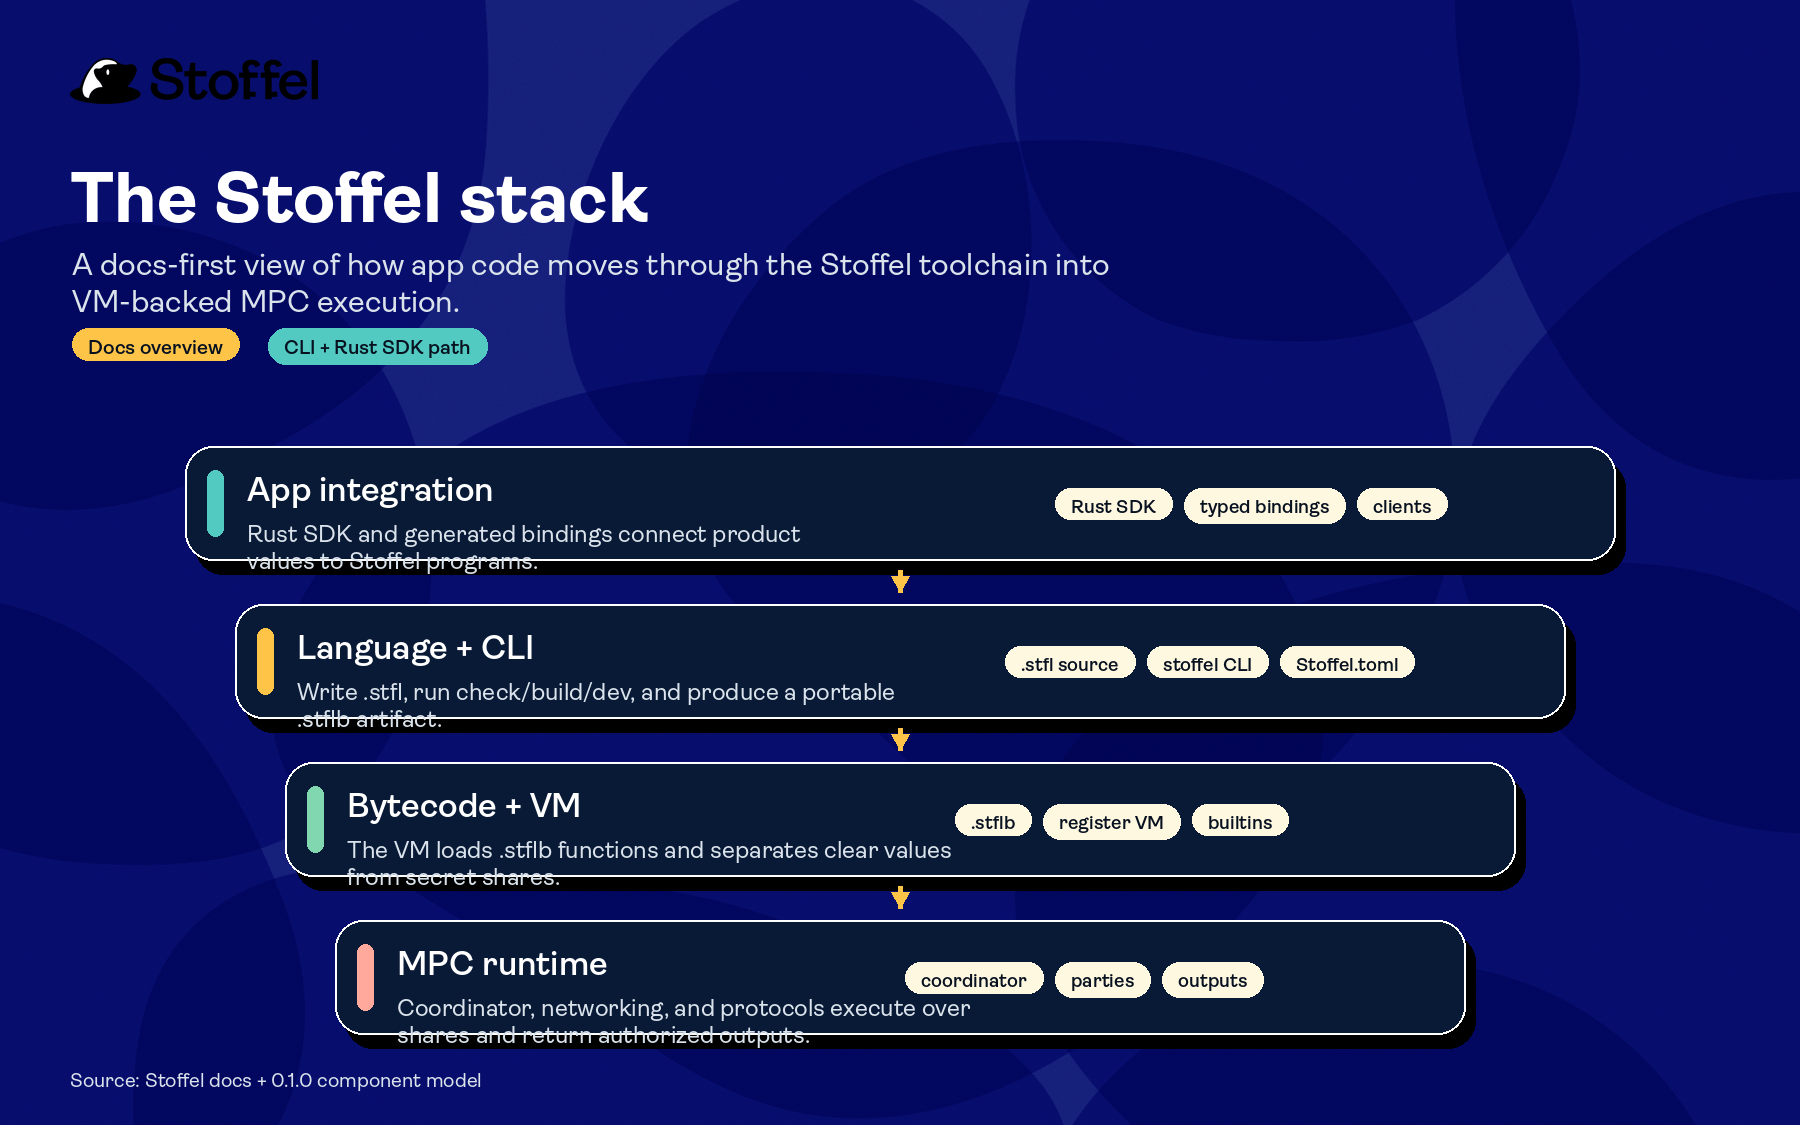
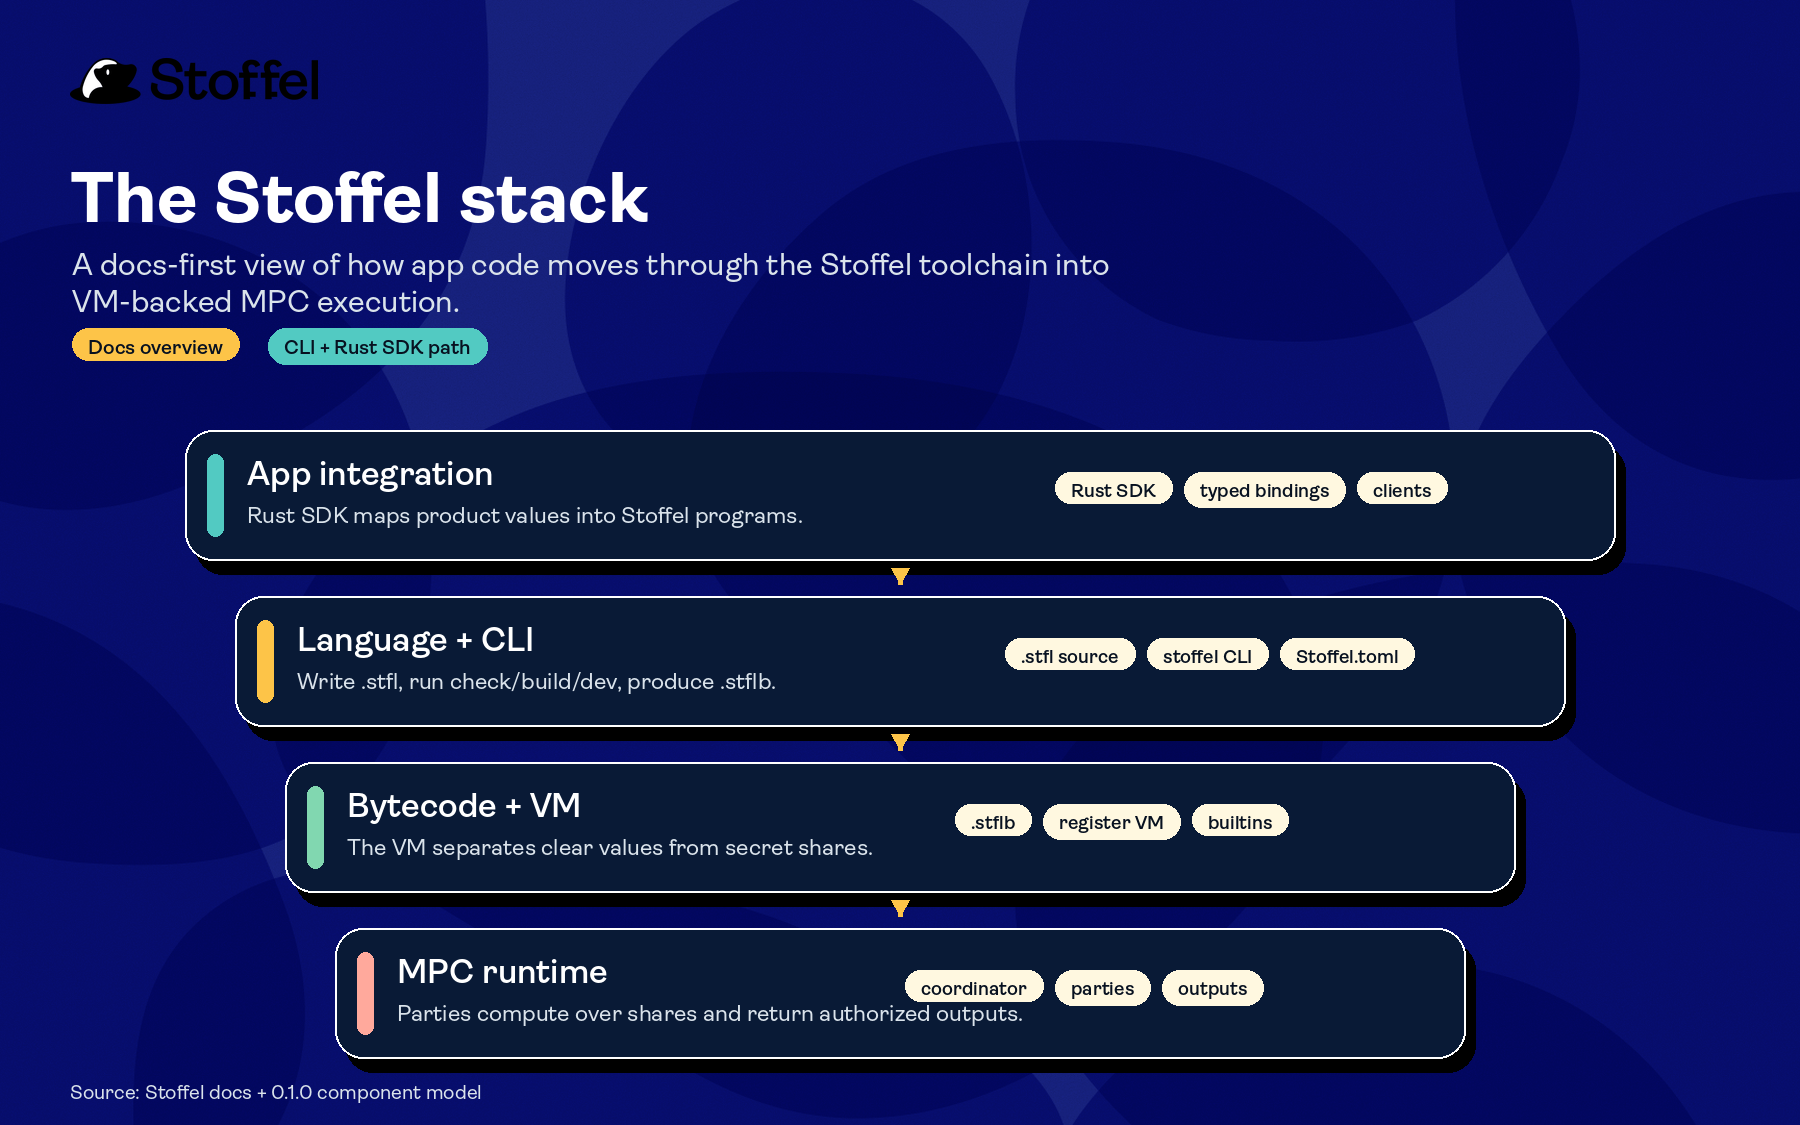
docs: add card containment QA for stack diagram

Changed region(s): [[0.0933, 0.3733, 0.9022, 0.6844], [0.0311, 0.7467, 0.8711, 0.9956]]

diff --git a/scripts/generate_docs_campaign_assets.py b/scripts/generate_docs_campaign_assets.py
@@ -34,7 +34,31 @@ COL = {
     'stroke': (255, 255, 255, 84),
 }
 
-qa = {'text_overflow': [], 'box_overflow': [], 'asset': None, 'text_count': 0, 'layer_count': 0}
+qa = {
+    'text_overflow': [],
+    'box_overflow': [],
+    'card_containment_issues': [],
+    'asset': None,
+    'text_count': 0,
+    'layer_count': 0,
+}
+
+
+def inside(inner, outer, padding=0):
+    ix1, iy1, ix2, iy2 = inner
+    ox1, oy1, ox2, oy2 = outer
+    return ix1 >= ox1 + padding and iy1 >= oy1 + padding and ix2 <= ox2 - padding and iy2 <= oy2 - padding
+
+
+def check_card_containment(label, kind, bbox, card_box, padding=18):
+    if not inside(bbox, card_box, padding):
+        qa['card_containment_issues'].append({
+            'label': label,
+            'kind': kind,
+            'bbox': tuple(round(v, 2) for v in bbox),
+            'card_box': card_box,
+            'padding': padding,
+        })
 
 
 def render_logo():
@@ -92,7 +116,7 @@ def draw_text(draw, xy, s, font, fill, maxw=None, spacing=6, label='text'):
     return bbox
 
 
-def chip(draw, xy, s, fill, f=None):
+def chip(draw, xy, s, fill, f=None, return_box=False):
     f = f or font_semi(20)
     bbox = draw.textbbox((0, 0), s, font=f)
     x, y = xy
@@ -103,6 +127,9 @@ def chip(draw, xy, s, fill, f=None):
     draw.text((x + pad_x, y + pad_y - 2), s, font=f, fill=COL['ink'])
     if x + w > W or y + h > H:
         qa['box_overflow'].append({'label': s, 'box': (x, y, x + w, y + h)})
+    box = (x, y, x + w, y + h)
+    if return_box:
+        return w, h, box
     return w, h
 
 
@@ -124,11 +151,14 @@ def layer_card(draw, box, title, subtitle, accent, pills):
     draw.rounded_rectangle((x1 + 10, y1 + 14, x2 + 10, y2 + 14), radius=28, fill=(0, 0, 0, 68))
     draw.rounded_rectangle(box, radius=28, fill=COL['card'], outline=COL['stroke'], width=2)
     draw.rounded_rectangle((x1 + 22, y1 + 24, x1 + 38, y2 - 24), radius=8, fill=accent)
-    draw_text(draw, (x1 + 62, y1 + 24), title, font_semi(34), COL['white'], maxw=520, label=title)
-    draw_text(draw, (x1 + 62, y1 + 74), subtitle, font_reg(24), COL['muted'], maxw=620, spacing=5, label=title + ' subtitle')
+    title_box = draw_text(draw, (x1 + 62, y1 + 24), title, font_semi(34), COL['white'], maxw=520, label=title)
+    check_card_containment(title, 'title', title_box, box, padding=22)
+    subtitle_box = draw_text(draw, (x1 + 62, y1 + 72), subtitle, font_reg(23), COL['muted'], maxw=760, spacing=5, label=title + ' subtitle')
+    check_card_containment(title + ' subtitle', 'subtitle', subtitle_box, box, padding=22)
     px, py = x2 - 560, y1 + 42
     for pill in pills:
-        w, h = chip(draw, (px, py), pill, (255, 248, 224, 238), font_semi(19))
+        w, h, pill_box = chip(draw, (px, py), pill, (255, 248, 224, 238), font_semi(19), return_box=True)
+        check_card_containment(pill, 'pill', pill_box, box, padding=22)
         px += w + 12
         if px > x2 - 78:
             px, py = x2 - 560, py + h + 12
@@ -155,10 +185,10 @@ def docs_stack_diagram():
     chip(d, (268, 328), 'CLI + Rust SDK path', COL['teal'])
 
     layers = [
-        ((185, 446, 1615, 560), 'App integration', 'Rust SDK and generated bindings connect product values to Stoffel programs.', COL['teal'], ['Rust SDK', 'typed bindings', 'clients']),
-        ((235, 604, 1565, 718), 'Language + CLI', 'Write .stfl, run check/build/dev, and produce a portable .stflb artifact.', COL['honey'], ['.stfl source', 'stoffel CLI', 'Stoffel.toml']),
-        ((285, 762, 1515, 876), 'Bytecode + VM', 'The VM loads .stflb functions and separates clear values from secret shares.', COL['green'], ['.stflb', 'register VM', 'builtins']),
-        ((335, 920, 1465, 1034), 'MPC runtime', 'Coordinator, networking, and protocols execute over shares and return authorized outputs.', COL['pink'], ['coordinator', 'parties', 'outputs']),
+        ((185, 430, 1615, 560), 'App integration', 'Rust SDK maps product values into Stoffel programs.', COL['teal'], ['Rust SDK', 'typed bindings', 'clients']),
+        ((235, 596, 1565, 726), 'Language + CLI', 'Write .stfl, run check/build/dev, produce .stflb.', COL['honey'], ['.stfl source', 'stoffel CLI', 'Stoffel.toml']),
+        ((285, 762, 1515, 892), 'Bytecode + VM', 'The VM separates clear values from secret shares.', COL['green'], ['.stflb', 'register VM', 'builtins']),
+        ((335, 928, 1465, 1058), 'MPC runtime', 'Parties compute over shares and return authorized outputs.', COL['pink'], ['coordinator', 'parties', 'outputs']),
     ]
 
     for box, title, sub, accent, pills in layers:
@@ -170,7 +200,7 @@ def docs_stack_diagram():
         arrow(d, (ax, a_box[3] + 10), (bx, b_box[1] - 12), COL['honey'], 5)
 
     # Subtle source note, not a competing visual element.
-    draw_text(d, (70, 1068), 'Source: Stoffel docs + 0.1.0 component model', font_reg(20), COL['muted'], label='source note')
+    draw_text(d, (70, 1080), 'Source: Stoffel docs + 0.1.0 component model', font_reg(20), COL['muted'], label='source note')
 
     out = OUT / 'stoffel-stack-docs.png'
     im.convert('RGB').save(out, quality=94, optimize=True)